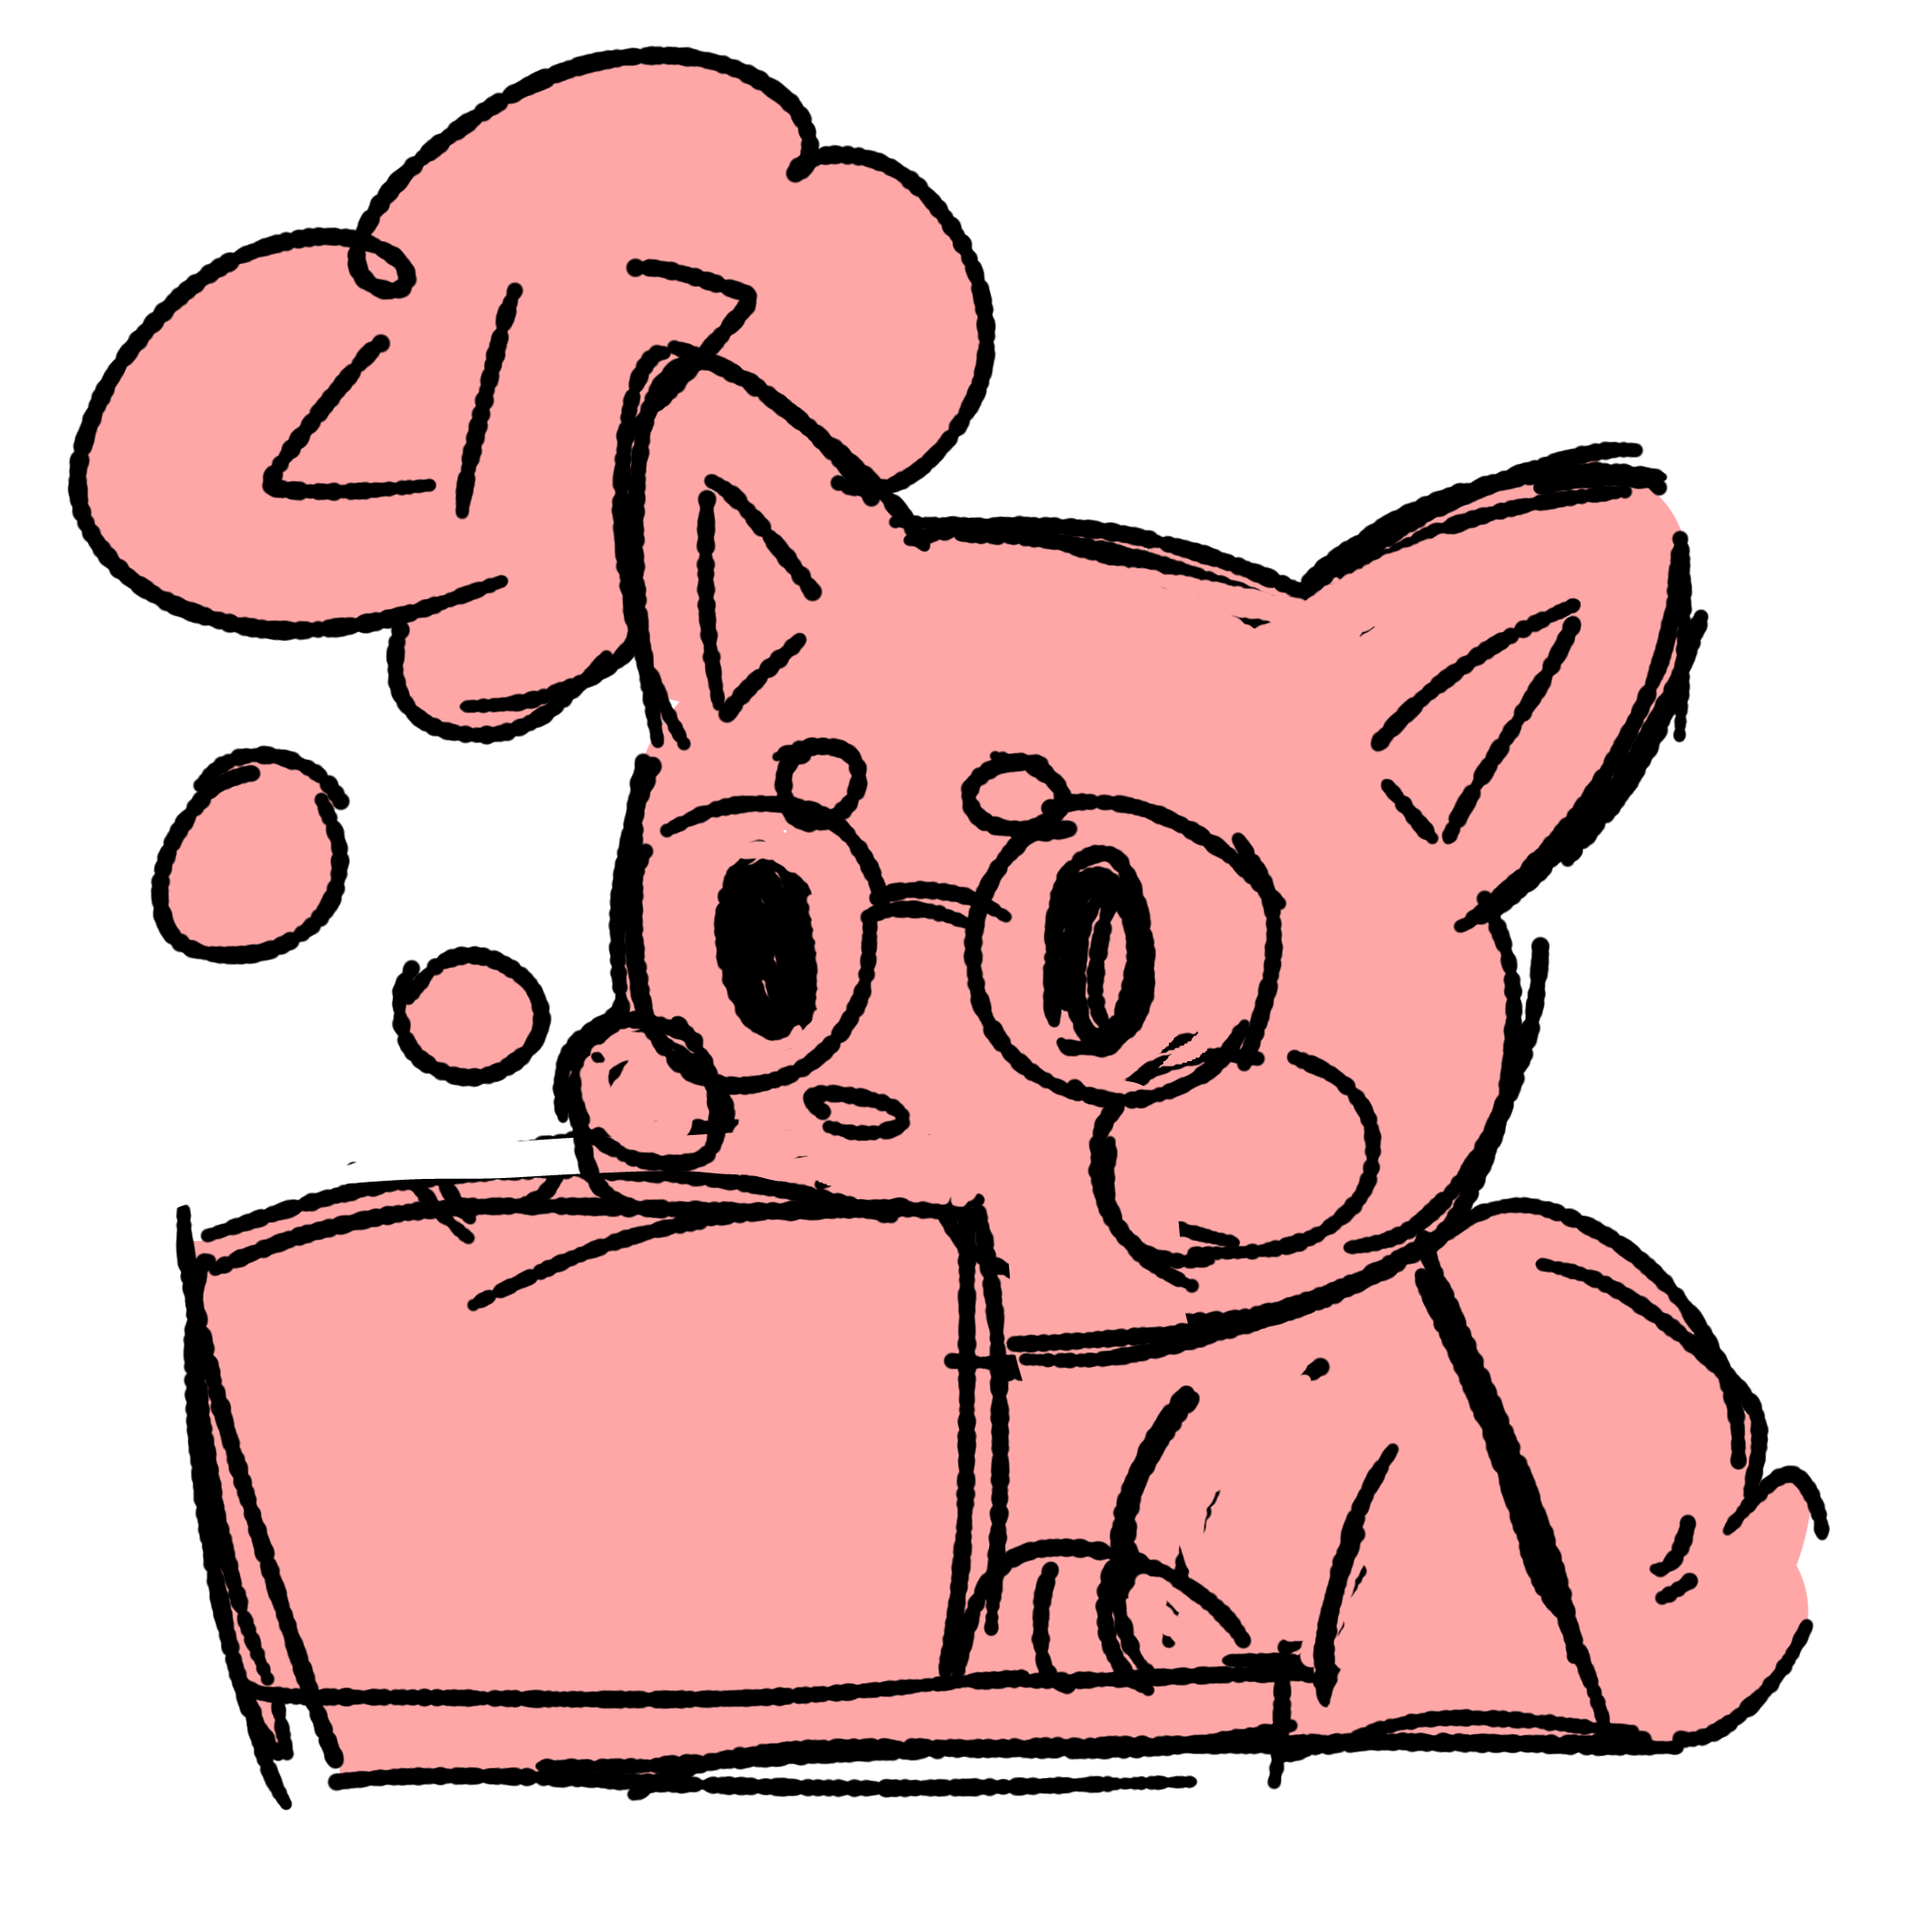
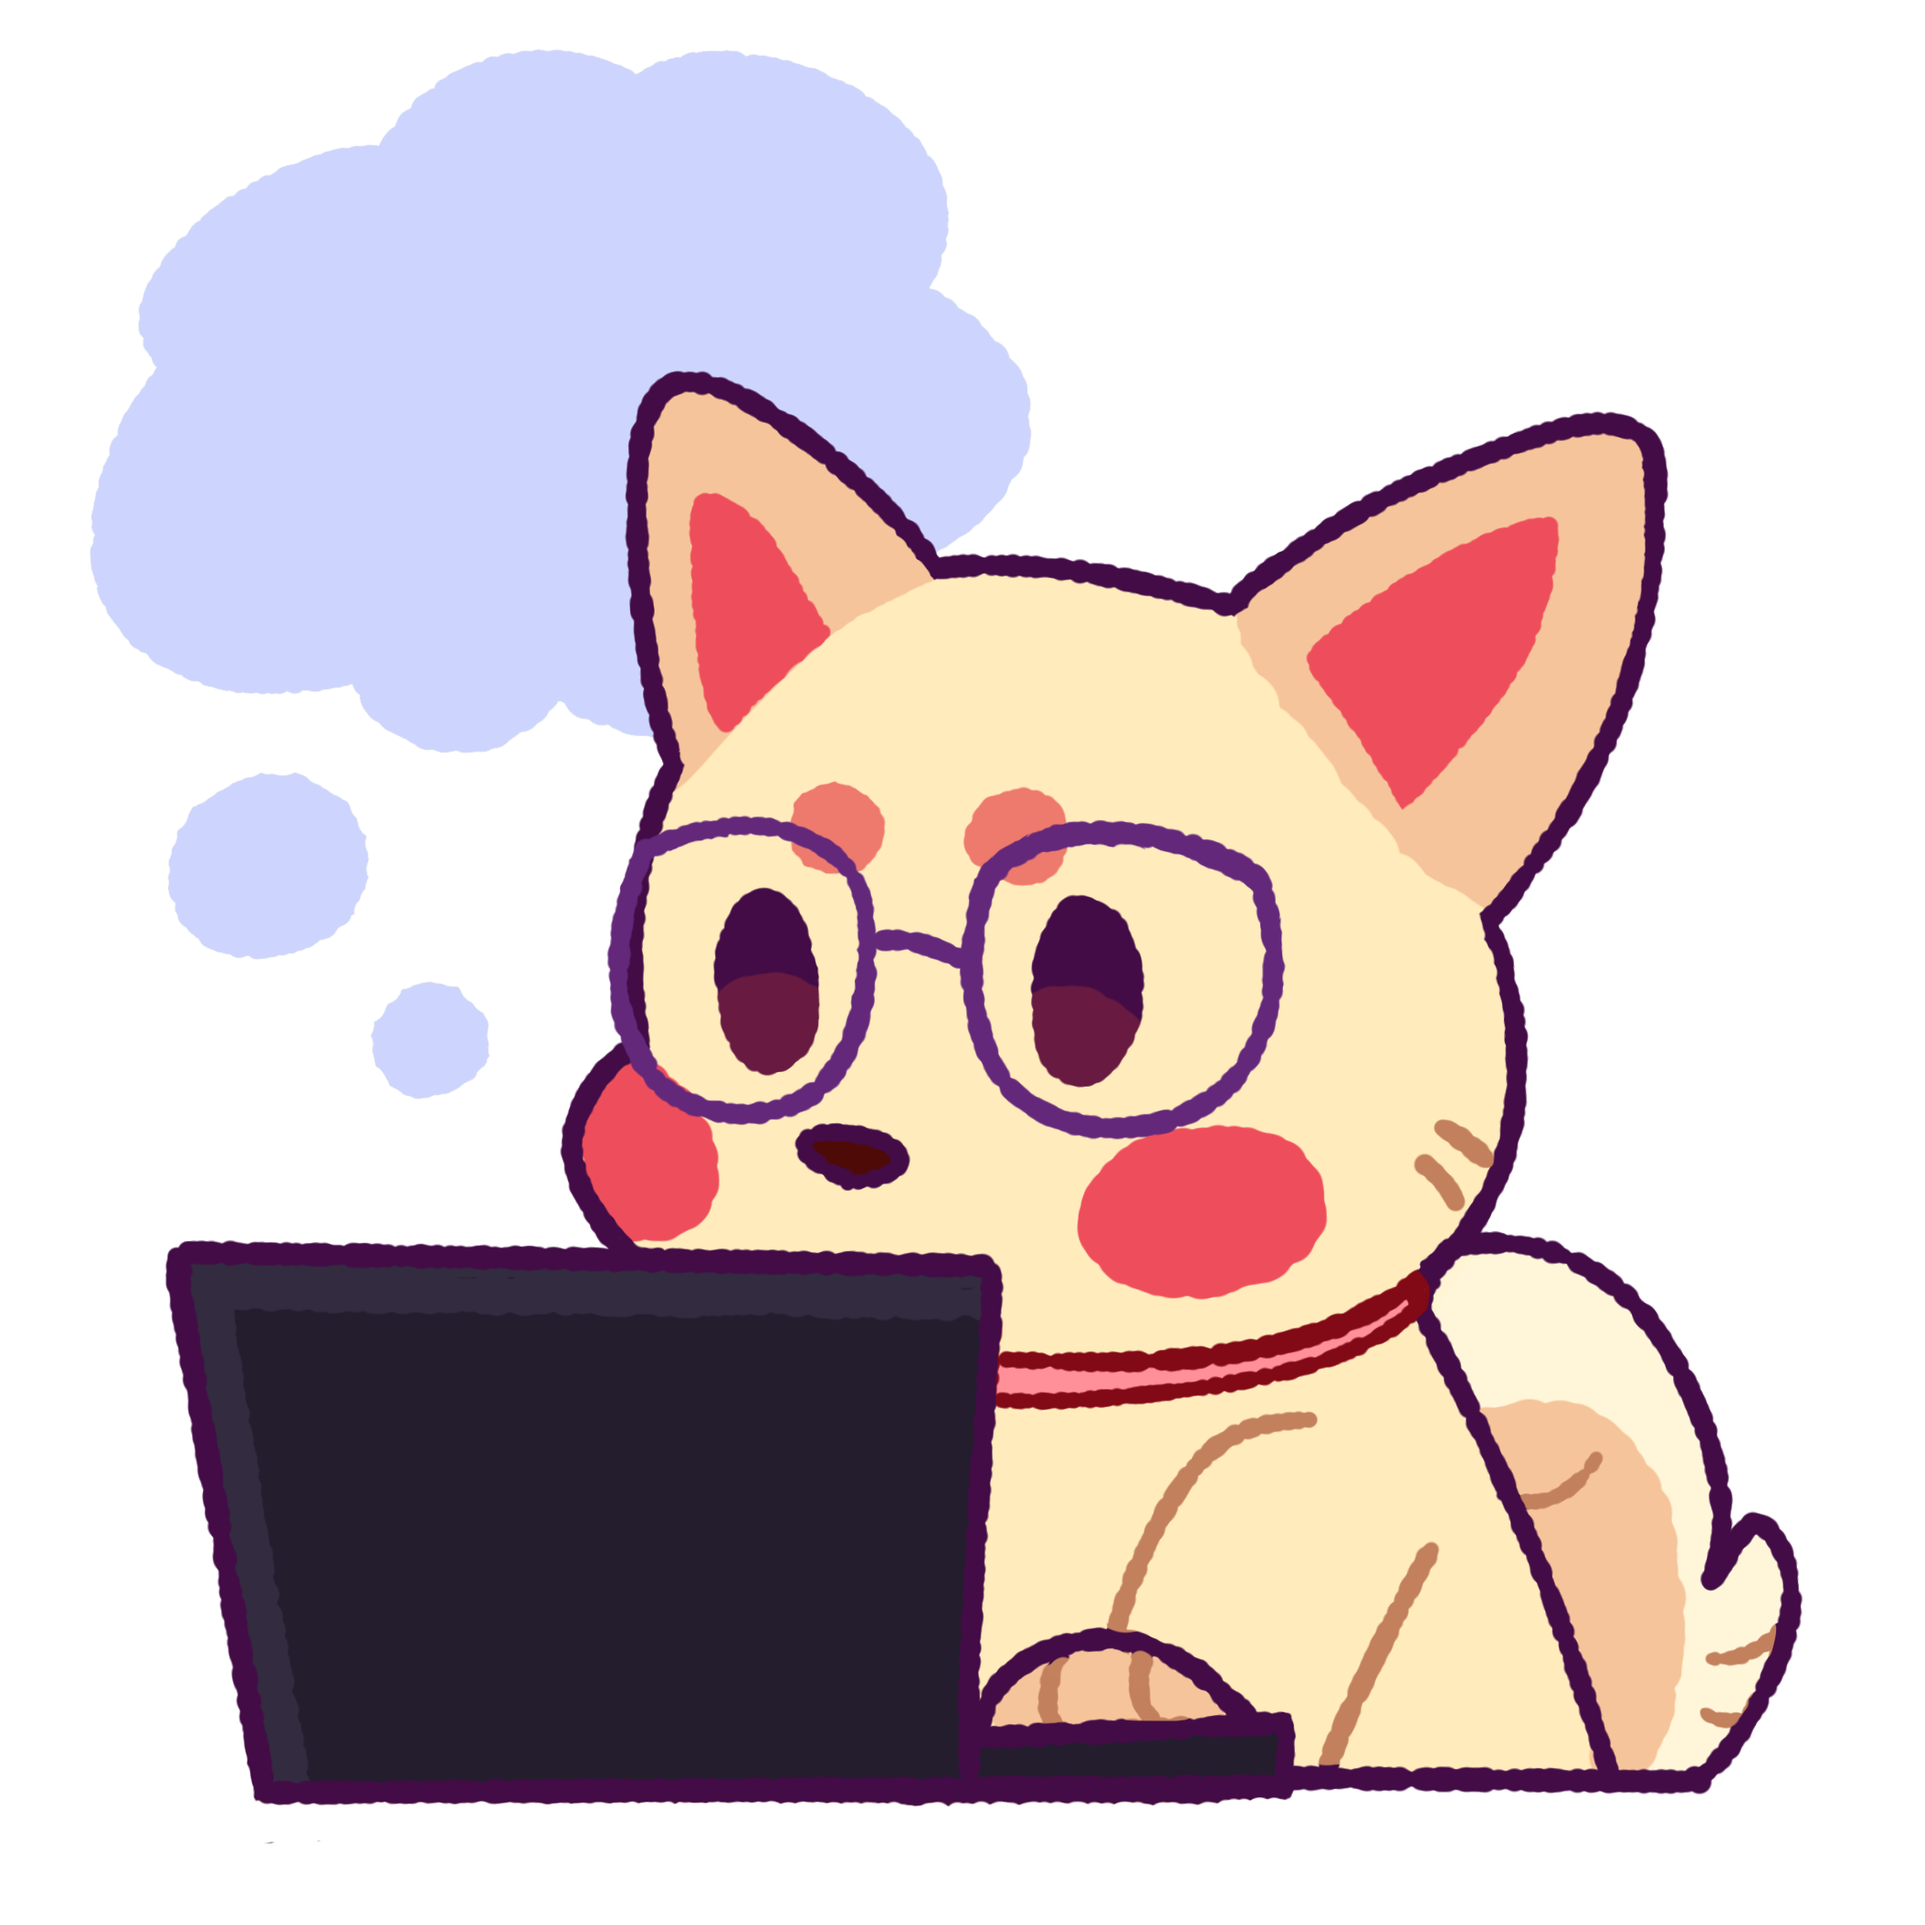
Update README + Add Img
Updates README, adds image to about section.

diff --git a/js/main.js b/js/main.js
@@ -55,9 +55,8 @@ function switchTheme(storedTheme) {
         lightSwitch.forEach((element) => {
             element.classList.remove('bi-moon-stars-fill')
             element.classList.add('bi-sun-fill')
-            if (pathname == '/')
-            {
-            selfiePic.src = 'img/selfie-night.jpg';
+            if (pathname != '/resume.html') {
+                selfiePic.src = 'img/selfie-night.jpg';
             }
             localStorage.setItem('theme', 'dark')
         });
@@ -67,9 +66,8 @@ function switchTheme(storedTheme) {
         lightSwitch.forEach((element) => {
             element.classList.remove('bi-sun-fill')
             element.classList.add('bi-moon-stars-fill')
-            if (pathname == '/')
-            {
-            selfiePic.src = 'img/selfie-day.jpg';
+            if (pathname != '/resume.html') {
+                selfiePic.src = 'img/selfie-day.jpg';
             }
             localStorage.setItem('theme', 'light');
         });
@@ -85,20 +83,18 @@ function setThemedIcons() {
             element.classList.remove('bi-moon-stars-fill');
             element.classList.add('bi-sun-fill');
         });
-                    if (pathname == '/')
-            {
-        selfiePic.src = 'img/selfie-night.jpg';
-            }
+        if (pathname != '/resume.html') {
+            selfiePic.src = 'img/selfie-night.jpg';
+        }
     }
     else {
         lightSwitch.forEach(element => {
             element.classList.remove('bi-sun-fill');
             element.classList.add('bi-moon-stars-fill');
         });
-                    if (pathname == '/')
-            {
-        selfiePic.src = 'img/selfie-day.jpg';
-            }
+        if (pathname != '/resume.html') {
+            selfiePic.src = 'img/selfie-day.jpg';
+        }
     }
 }
 

diff --git a/css/styles.css b/css/styles.css
@@ -155,10 +155,6 @@ section div.notice {
 }
 
 /* About Section */
-.about-text > .flex {
-    justify-content: center;
-}
-
 .about-pic {
     width: 80px;
     height: 80px;
@@ -175,6 +171,11 @@ section div.notice {
     width: 100%;
     object-fit: cover;
     pointer-events: none;
+}
+
+.about-image {
+    margin: 1rem auto;
+    width: 50%;
 }
 
 /* Cards */
@@ -273,7 +274,7 @@ ul.tags li:hover {
 .accordion-title {
     background-color: var(--accent);
     color: var(--header-text);
-    max-width: 70ch;
+    max-width: 75ch;
     padding: 0.5rem 1rem;
     font-size: 1.25rem;
     justify-content: space-between;
@@ -548,15 +549,6 @@ ul.tags li:hover {
         margin: 2rem auto;
     }
 
-    /* .about-summary {
-    width: 70%;
-    }
-
-    .about-image {
-    margin: auto;
-    width: 30%;
-    } */
-
     .homepage section:nth-of-type(-n + 1) {
         margin: 6rem auto 0 auto;
         max-width: 50vw;
@@ -631,6 +623,19 @@ ul.tags li:hover {
 
     .education .align-right {
         text-align: right;
+    }
+
+    .about-text .flex {
+        margin: 1.5rem 3.5rem;
+    }
+
+    .about-summary {
+    width: 58%;
+    }
+
+    .about-image {
+    margin: auto;
+    width: 38%;
     }
 
 }

diff --git a/index.html b/index.html
@@ -61,7 +61,7 @@
                         <p>
                             I'm currently a Software Development student at NAIT!
                             I officially began my coding journey in 2024, but I'm learning new things every day and hoping to
-                            completed
+                            complete
                             the program in Spring 2026. Though I particularly enjoy front end, I've been taught skills that
                             enable me to be a fullstack developer and work on the back end as well.
                         </p>
@@ -75,7 +75,7 @@
                             video
                             editing and 3D modeling. I love working with things that let me be creative!</p>
                     </div>
-                    <!-- <div class="about-image"><img src="img/dogthink.png" alt="#"></div> -->
+                    <div class="about-image"><img src="img/dogthink.png" alt="#"></div>
                 </div>
                 <div class="accordion-item">
                     <div class="flex mobile-flex accordion-title">

diff --git a/README.md b/README.md
@@ -10,6 +10,7 @@ Welcome to my personal portfolio website! As I'm a year into my programming jour
  - Make custom art for the about / other sections
  - ~~More 'pizzazz'! Like panels that grow slightly when hovered over~~
  - Improve site accessibility, add backup font in case Google Fonts don't load, etc
+ - Convert imgs to better filetypes
 
  BONUS:
  - ~~Add Javascript for a more responsive site~~
@@ -18,5 +19,5 @@ Welcome to my personal portfolio website! As I'm a year into my programming jour
  - Add button at footer to return to top of the site
  - ~~Add a "Dark" mode that is triggered with the click of a moon symbol (or something like that)~~
  - Add "Github" dev log/commit history, if possible
- - Fix and simplify JS for dark mode
+ - ~~Fix and simplify JS for dark mode~~
  - Make carousel for projects
